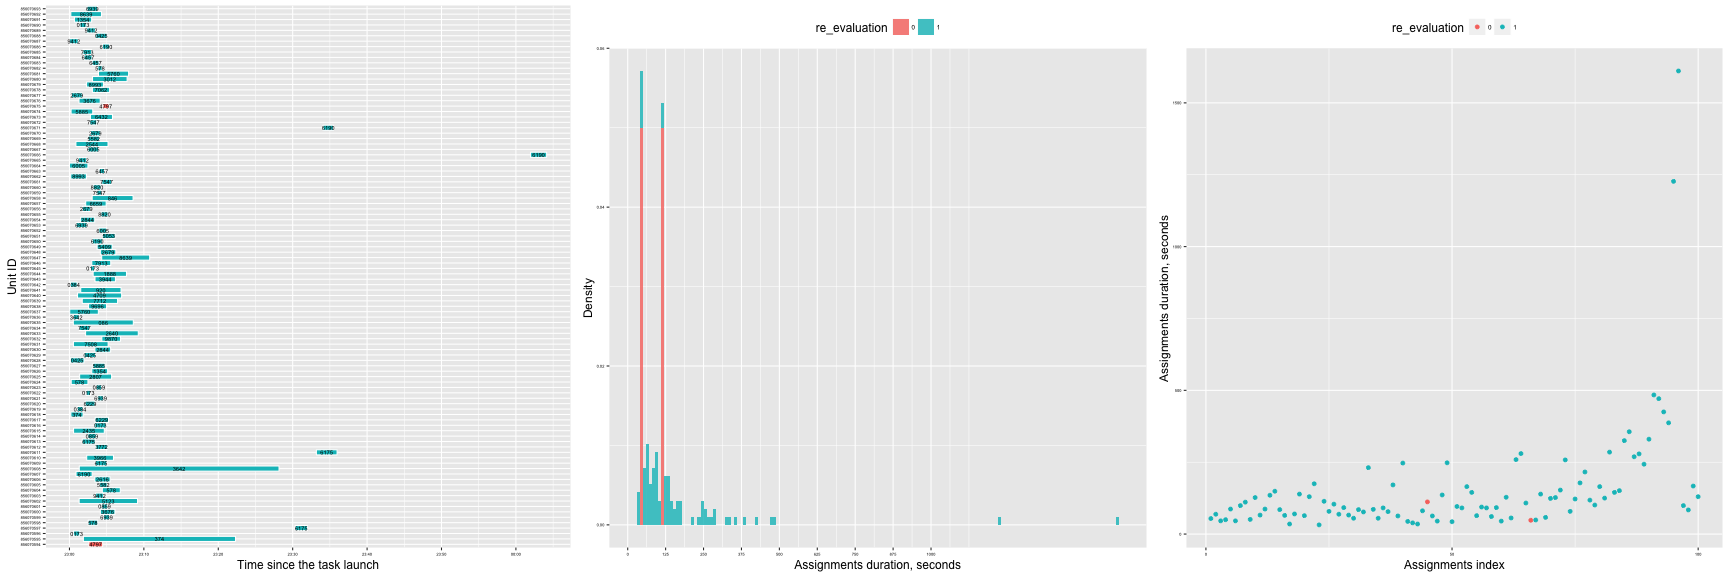
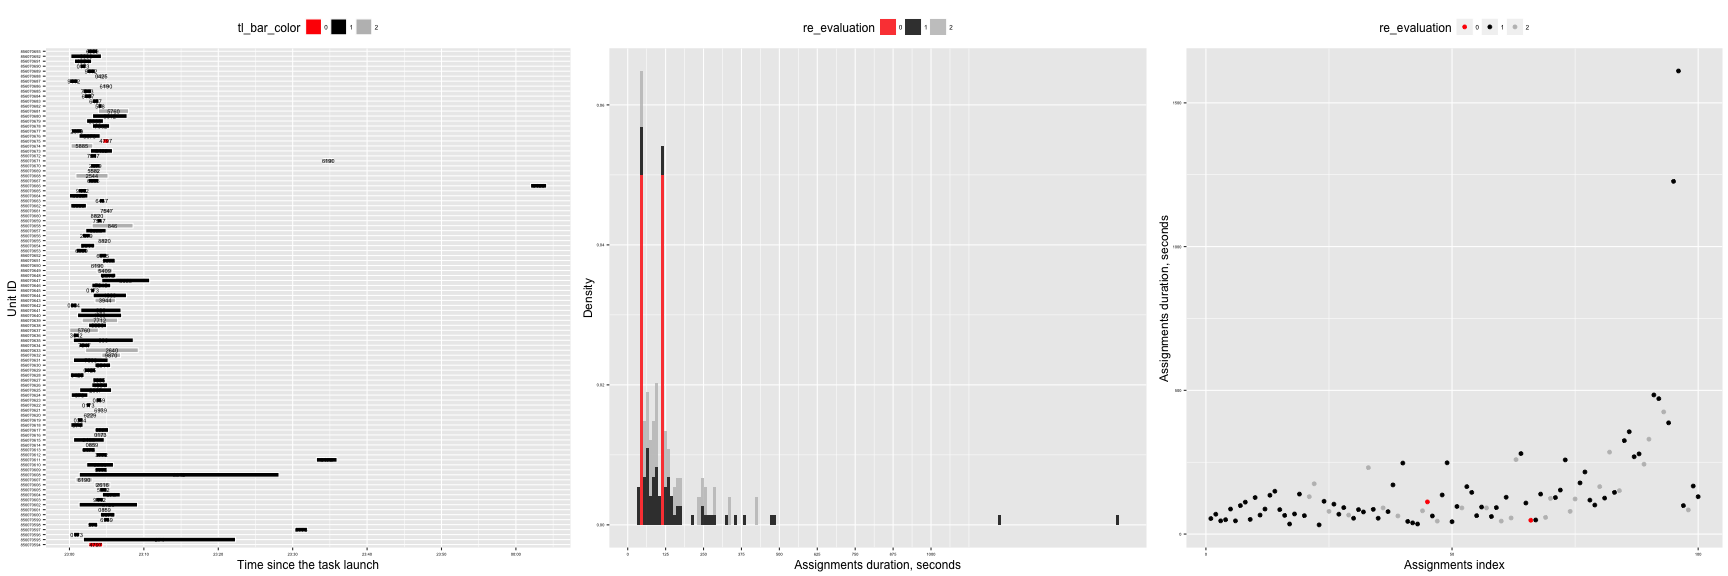
color and fill scales

diff --git a/background_report.md b/background_report.md
@@ -31,19 +31,31 @@ We get a list of links to experiments results:
 
 ```
 ## [1] "#### ImageLabeling"
-## [1] 1.1
+```
+
+```
+## Scale for 'fill' is already present. Adding another scale for 'fill',
+## which will replace the existing scale.
 ```
 
 ```
 ## NULL
-## [1] 2.1
+```
+
+```
+## Scale for 'fill' is already present. Adding another scale for 'fill',
+## which will replace the existing scale.
 ```
 
 ![plot of chunk unnamed-chunk-3](figure/unnamed-chunk-3-1.png) 
 
 ```
 ## NULL
-## [1] 3.1
+```
+
+```
+## Scale for 'fill' is already present. Adding another scale for 'fill',
+## which will replace the existing scale.
 ```
 
 ![plot of chunk unnamed-chunk-3](figure/unnamed-chunk-3-2.png) 
@@ -51,21 +63,33 @@ We get a list of links to experiments results:
 ```
 ## NULL
 ## [1] "#### Transcription"
-## [1] 1.2
+```
+
+```
+## Scale for 'fill' is already present. Adding another scale for 'fill',
+## which will replace the existing scale.
 ```
 
 ![plot of chunk unnamed-chunk-3](figure/unnamed-chunk-3-3.png) 
 
 ```
 ## NULL
-## [1] 2.2
+```
+
+```
+## Scale for 'fill' is already present. Adding another scale for 'fill',
+## which will replace the existing scale.
 ```
 
 ![plot of chunk unnamed-chunk-3](figure/unnamed-chunk-3-4.png) 
 
 ```
 ## NULL
-## [1] 3.2
+```
+
+```
+## Scale for 'fill' is already present. Adding another scale for 'fill',
+## which will replace the existing scale.
 ```
 
 ![plot of chunk unnamed-chunk-3](figure/unnamed-chunk-3-5.png) 
@@ -73,21 +97,33 @@ We get a list of links to experiments results:
 ```
 ## NULL
 ## [1] "#### BusinessAddress"
-## [1] 1.3
+```
+
+```
+## Scale for 'fill' is already present. Adding another scale for 'fill',
+## which will replace the existing scale.
 ```
 
 ![plot of chunk unnamed-chunk-3](figure/unnamed-chunk-3-6.png) 
 
 ```
 ## NULL
-## [1] 2.3
+```
+
+```
+## Scale for 'fill' is already present. Adding another scale for 'fill',
+## which will replace the existing scale.
 ```
 
 ![plot of chunk unnamed-chunk-3](figure/unnamed-chunk-3-7.png) 
 
 ```
 ## NULL
-## [1] 3.3
+```
+
+```
+## Scale for 'fill' is already present. Adding another scale for 'fill',
+## which will replace the existing scale.
 ```
 
 ![plot of chunk unnamed-chunk-3](figure/unnamed-chunk-3-8.png) ![plot of chunk unnamed-chunk-3](figure/unnamed-chunk-3-9.png) 
